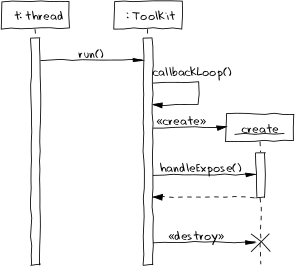
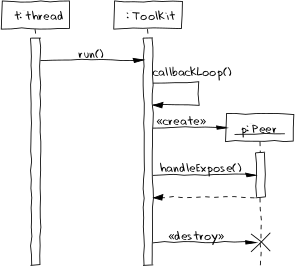
Fixed a minor bug for the title of the created object

diff --git a/bin/sequenceDiagramProcessor.js b/bin/sequenceDiagramProcessor.js
@@ -102,7 +102,7 @@ var toPicModel = function(tokenList) {
         picLines.push(util.format('%s(%s,%s,"%s");', messageType , 
             objectLookupCache[recordName(value.from.content.text)].uid,
             objectLookupCache[recordName(value.to.content.text)].uid,
-            value.text));
+            (messageType === 'cmessage') ? value.to.content.text : value.text));
         
         if (messageType === 'cmessage') {
             picLines.push(util.format('active(%s);', objectLookupCache[recordName(value.to.content.text)].uid));
